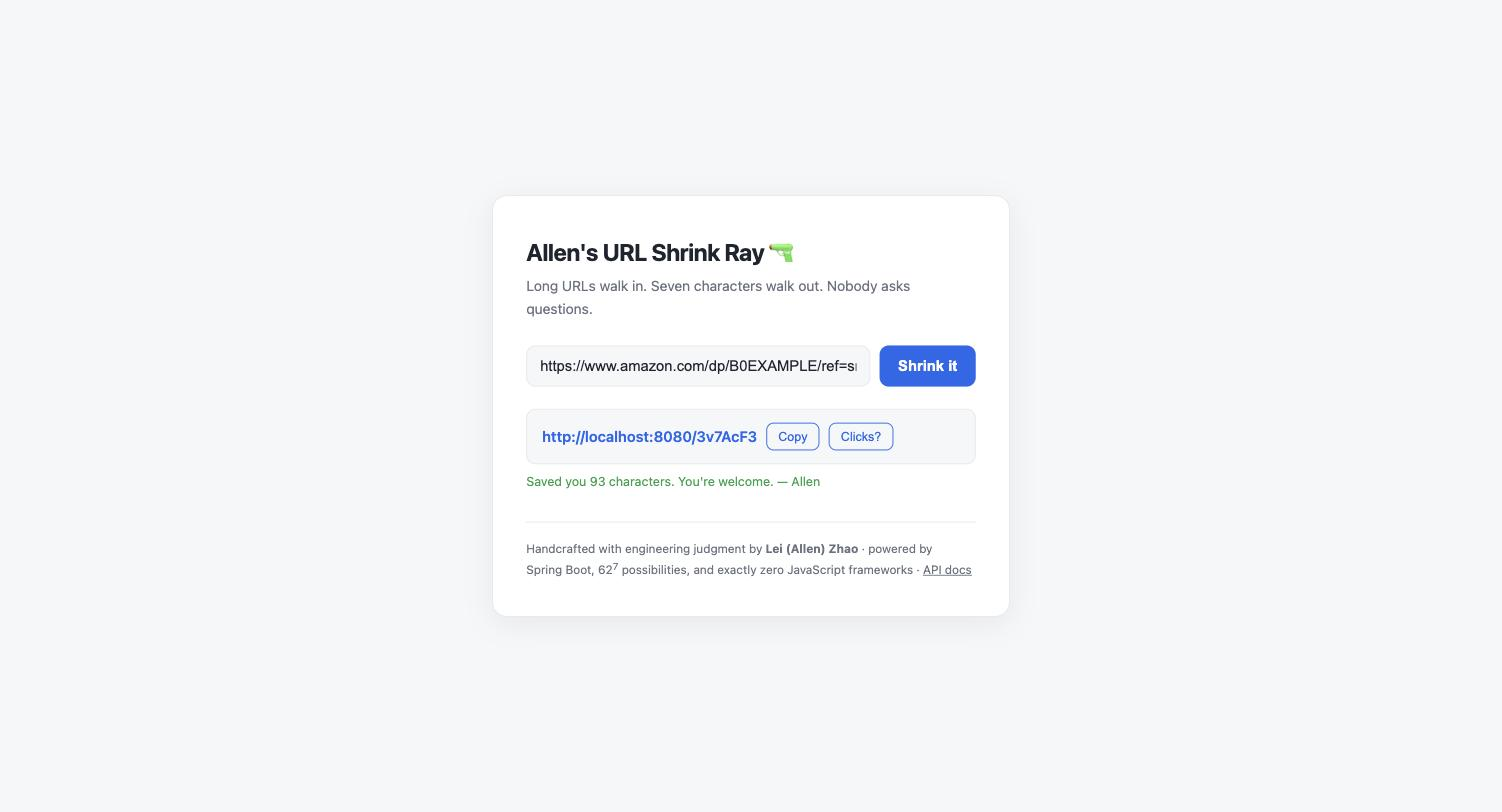
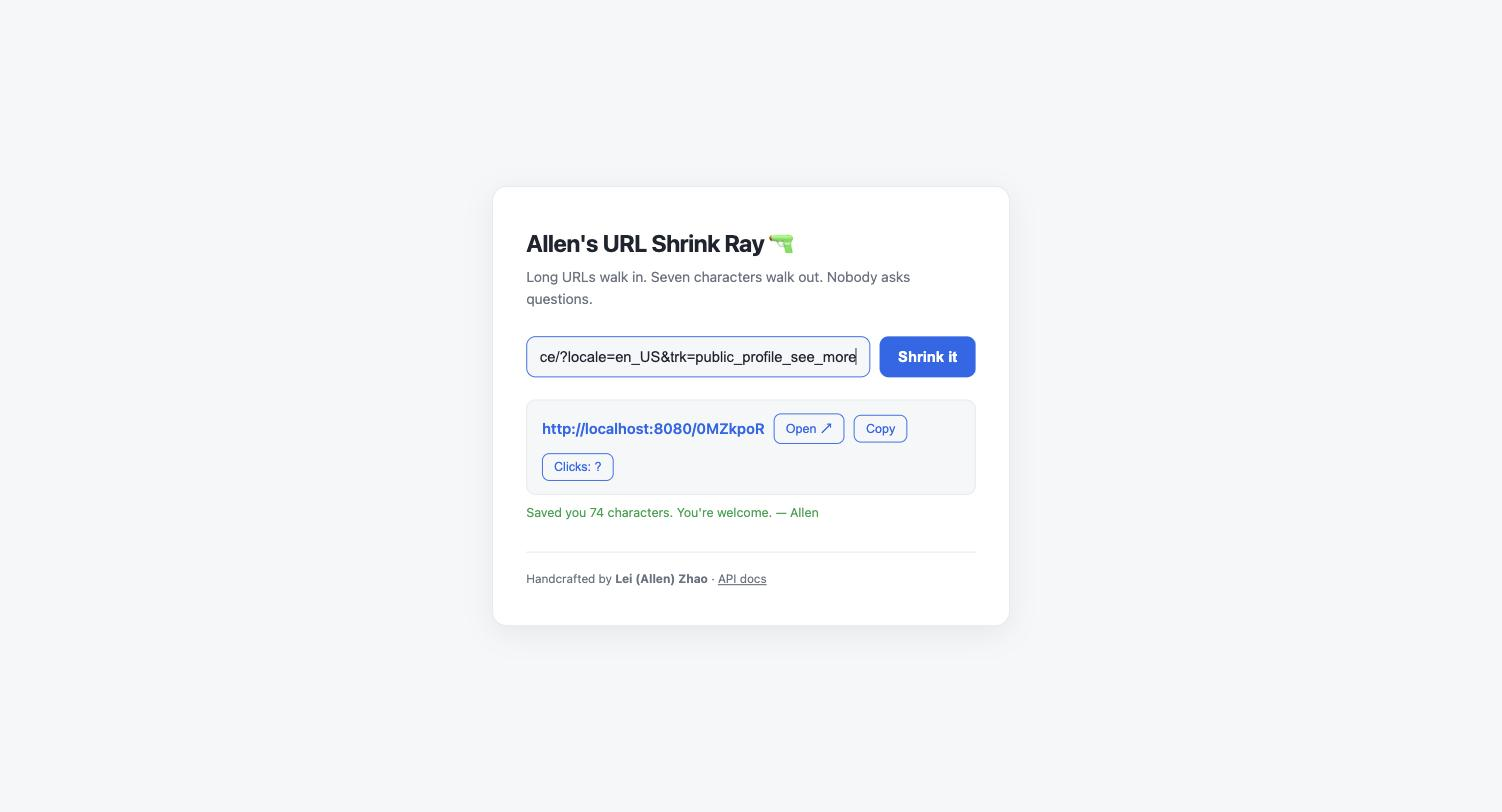
README: embed screenshots (demo page, guardrails, API surface); refresh demo evidence

Changed region(s): [[0.3369, 0.4926, 0.6431, 0.7389], [0.3369, 0.2771, 0.6125, 0.4002], [0.3369, 0.4002, 0.6431, 0.4926]]

diff --git a/README.md b/README.md
@@ -6,7 +6,7 @@ traceability, and validation at every step.
 
 > Status: **Complete (Parts 1–3)** — greenfield core, click analytics (brownfield
 > scenario), reliability features (ambiguous scenario), hardening, risk register, and final
-> summary. Task board: `docs/decomposition.md` (T1–T18, all done). Start with
+> summary. Task board: `docs/decomposition.md` (T1–T19, all done). Start with
 > `docs/final-summary.md` for the full picture.
 
 ## Stack
@@ -33,6 +33,28 @@ A URL shortener is a lookup table plus a redirect service — the long URL is ne
 Submitting the same URL twice deliberately yields two different codes (no deduplication) —
 a documented product choice (ADR-002): same-code-for-same-URL would let outsiders probe
 whether a URL was already shortened, and independent shares deserve independent stats.
+
+## Screenshots
+
+**Demo page** (`/`) — shorten, open, copy, check clicks:
+
+![Demo page shortening a URL](docs/evidence/final-demo-page.jpg)
+
+**Guardrails in action** — a `javascript:` URL rejected by validation (ADR-004), and the
+21st create within a minute hitting the per-IP rate limit (ADR-006):
+
+| Dangerous scheme → 400 | Rate limit → 429 |
+|---|---|
+| ![Blocked javascript scheme](docs/evidence/final-demo-blocked.jpg) | ![Rate limited](docs/evidence/final-demo-ratelimit.jpg) |
+
+**API surface & a real redirect** — Swagger UI, a short link landing on its destination,
+and the click stats behind it:
+
+| OpenAPI docs | Redirect followed | Click stats |
+|---|---|---|
+| ![Swagger UI](docs/evidence/final-swagger-ui.jpg) | ![Redirect in browser](docs/evidence/final-redirect-in-browser.jpg) | ![Stats endpoint](docs/evidence/final-stats-endpoint.jpg) |
+
+More transcripts and per-part run logs live in [`docs/evidence/`](docs/evidence/).
 
 ## Architecture
 

diff --git a/docs/evidence/README.md b/docs/evidence/README.md
@@ -40,4 +40,6 @@ Validation artifacts captured at the end of each part. Logs are live transcripts
 | `final-swagger-ui.jpg` | Swagger UI with the complete API surface: redirect, create, lookup, stats |
 | `final-redirect-in-browser.jpg` | A short link opened in the browser landing on the destination (example.com in the address bar) |
 | `final-stats-endpoint.jpg` | Stats endpoint in the browser: `totalClicks: 6` — 5 scripted clicks plus the one real browser redirect above, closing the analytics loop |
-| `final-demo-page.jpg` | Bonus demo page at `/` shortening a real URL in the browser |
+| `final-demo-page.jpg` | Bonus demo page at `/` shortening a real URL (Open / Copy / Clicks controls) |
+| `final-demo-blocked.jpg` | Demo page: `javascript:` scheme rejected by the ADR-004 security validation (400) |
+| `final-demo-ratelimit.jpg` | Demo page: 21st create in a minute hitting the per-IP rate limit (429) |
